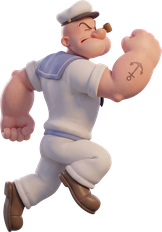
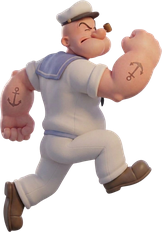
v0.47: yeni zıplama ve iniş pozları
Claude-Session: https://claude.ai/code/session_017R1wDYYCQ6S6TWsgKDqrv7

diff --git a/www/js/config.js b/www/js/config.js
@@ -1,7 +1,7 @@
 // Oyunun tüm ayarları burada. AdMob ID'lerini buraya yaz.
 window.OYUN_CONFIG = {
   oyunAdi: "DigPopeyeDug",
-  surum: "v0.46", // sağ altta görünür
+  surum: "v0.47", // sağ altta görünür
   paketAdi: "com.jawk.digpopeyedug", // Play Store'a yüklendikten sonra DEĞİŞTİRİLEMEZ
 
   reklam: {

diff --git a/NOTLAR.md b/NOTLAR.md
@@ -2,6 +2,9 @@
 
 ## Bekleyenler
 
+## v0.47 — Yeni Zıplama ve İniş Pozları
+- reis_zipla (yükselirken) ve reis_zipla_in (inerken) yeni görsellerle değiştirildi; orijinal saydamlık korundu, ikisi aynı ölçekte.
+
 ## v0.46 — Görseller Orijinal Saydamlıkla Yeniden Kesildi
 - Kullanıcının verdiği PNG'ler zaten saydam arka planlı; önceki kesimlerde saydamlık atılıp arka plan renge göre siliniyordu. Bu yüzden kapalı boşluklar (ör. Reis'in eli ile kemeri arası) beyaz/siyah kalıyordu.
 - Tüm kullanıcı görselleri orijinal saydamlıklarıyla yeniden kesildi (boyut ve hizalamalar aynı): reis_idle2/3, reis_egil0-4, reis_zipla, reis_zipla_in, pervane_kapali/acik, btn_sayfa_sol/sag, btn_bolum_daire, btn_bolumler, panel_bolumler.
